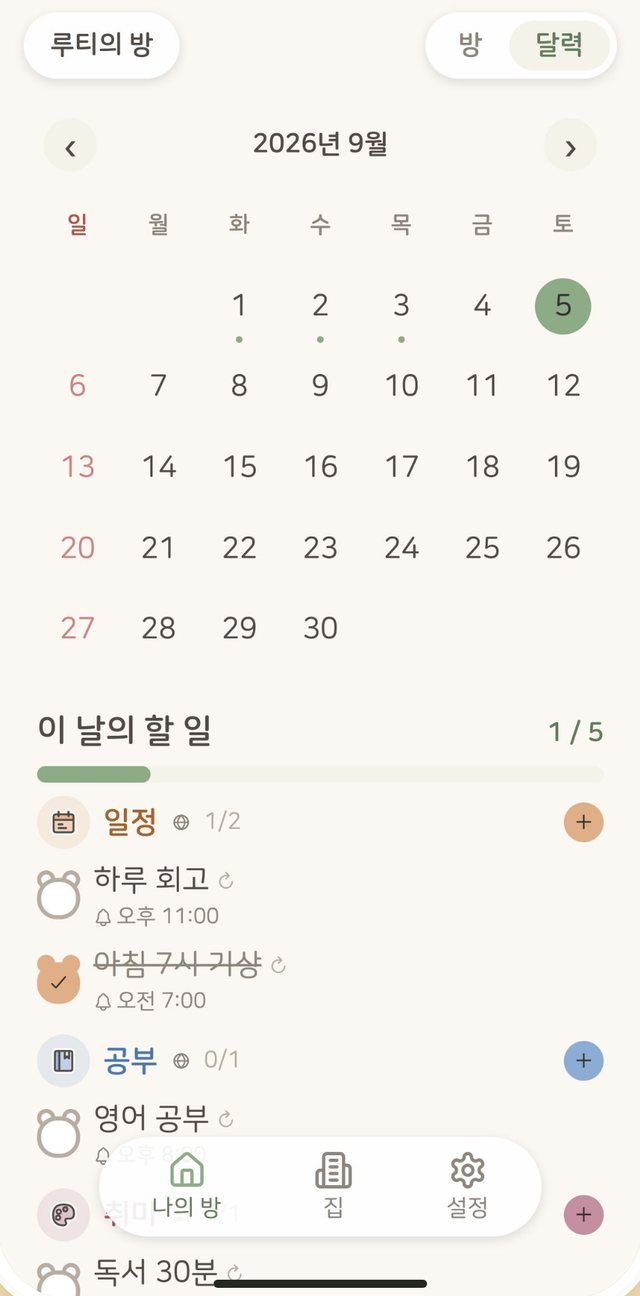
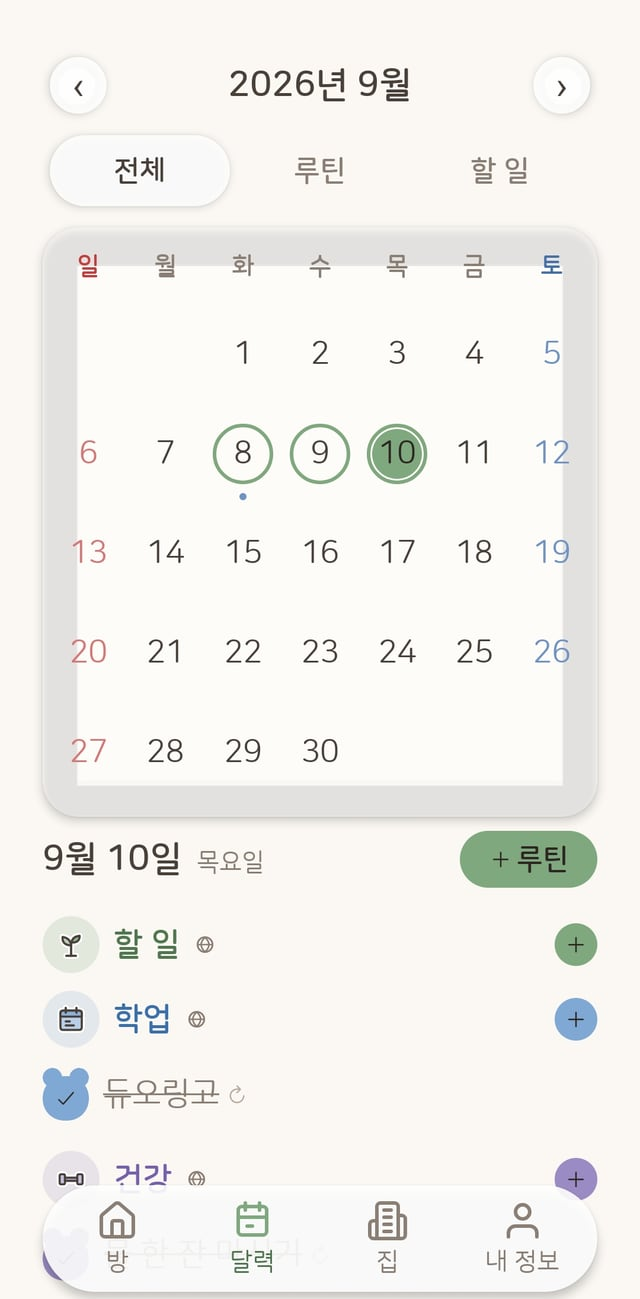
chore: 랜딩 스크린샷 교체 — 2026-09-10 UI(방·할 일·꾸미기·집·달력) (#44)
- public/assets/screens 5장 교체(Android 캡처, 640px). 계정명도 '루게더'로 바뀌어 이전 jjh 노출 해소
- scripts/screens.mjs: 상태바 없는 캡처용 full 모드(크롭 없이 리사이즈) — raw는 위 165px을 잘라 Lv 배지·뒤로가기·집 제목이 날아감
- i18n alt 텍스트(ko/en)를 새 화면에 맞게 갱신

Claude-Session: https://claude.ai/code/session_01NvziasYzK4XLJfxQvks6WQ

diff --git a/src/i18n/index.ts b/src/i18n/index.ts
@@ -36,15 +36,15 @@ const ko: Dict = {
     lead: '내 캐릭터와, 친구들과 한 집에서 함께 크는 할 일 관리 앱, 루게더.',
     webLink: 'PC에서 설치 없이 웹으로 시작하기 →',
     scrollHint: '스크롤해서 더 알아보기',
-    heroAlt: '루게더 내 방 화면 — 캐릭터가 쉬고 있는 노란 방과 오늘의 할 일',
+    heroAlt: '루게더 내 방 화면 — 구름 벽지 방에서 쉬는 고양이 캐릭터와 오늘의 할 일',
   },
   badges: { comingSoon: '출시 예정' },
   // 카피·캡처는 App Store 스크린샷(2026-09)과 동일 — 스토어에서 본 앱을 랜딩에서 그대로 만나게
   tour: [
-    { title: ['매일의 할 일을', '가볍게 체크'], desc: '모닝·건강·성장처럼 카테고리로 묶고, 알림 시간까지 딱 정해요', alt: '오늘의 할 일 화면 — 모닝·건강·성장 카테고리와 곰 체크' },
+    { title: ['매일의 할 일을', '가볍게 체크'], desc: '모닝·건강·성장처럼 카테고리로 묶고, 알림 시간까지 딱 정해요', alt: '오늘의 할 일 화면 — 할 일·학업·건강 카테고리와 곰 체크' },
     { title: ['가구부터 벽지까지', '내 취향대로'], desc: '체크로 모은 코인으로 가구·소품·벽지·바닥을 골라 내 방을 꾸며요', alt: '방 꾸미기 화면 — 가구·소품·벽지·바닥 탭과 적용하기' },
-    { title: ['친구들과 한 집에서', '함께 쌓는 루틴'], desc: '초대코드로 모인 친구들의 방이 한 집에 — 함께 지킨 루틴이 집 레벨을 올려요', alt: '집 화면 — 친구 넷의 방이 모인 구름 위의 집, 집 레벨과 구성원' },
-    { title: ['차곡차곡 쌓인 하루', '달력에서 한눈에'], desc: '지킨 날마다 달력에 점이 찍히고, 주간 회고로 한 주를 돌아봐요', alt: '달력 화면 — 완료한 날에 점이 찍힌 9월 달력과 그날의 할 일' },
+    { title: ['친구들과 한 집에서', '함께 쌓는 루틴'], desc: '초대코드로 모인 친구들의 방이 한 집에 — 함께 지킨 루틴이 집 레벨을 올려요', alt: '집 화면 — 구름 위 집에 모인 방들, 집 레벨·멤버와 목표·집 탐색·집 관리 버튼' },
+    { title: ['차곡차곡 쌓인 하루', '달력에서 한눈에'], desc: '지킨 날마다 달력에 점이 찍히고, 주간 회고로 한 주를 돌아봐요', alt: '달력 화면 — 완료한 날에 동그라미가 표시된 9월 달력과 그날의 할 일' },
   ],
   web: {
     eyebrow: '웹에서도',
@@ -95,14 +95,14 @@ const en: Dict = {
     lead: 'A routine and to-do app where you grow with your character and friends, all in one house.',
     webLink: 'On PC? Start on the web, no install →',
     scrollHint: 'Scroll to learn more',
-    heroAlt: 'Rougether room screen — a cat character resting in a yellow room above today’s to-dos',
+    heroAlt: 'Rougether room screen — a cat character resting in a cloud-wallpaper room above today’s to-dos',
   },
   badges: { comingSoon: 'Coming soon' },
   tour: [
-    { title: ['Check off the day’s to-dos', 'with a light touch'], desc: 'Group them by category — morning, health, growth — and set exact reminder times', alt: 'Today’s to-dos screen — morning, health and growth categories with bear check marks' },
+    { title: ['Check off the day’s to-dos', 'with a light touch'], desc: 'Group them by category — morning, health, growth — and set exact reminder times', alt: 'Today’s to-dos screen — to-do, study and health categories with bear check marks' },
     { title: ['From furniture to wallpaper,', 'your taste, your room'], desc: 'Spend the coins from your check-ins on furniture, décor, wallpaper and floors', alt: 'Room decorating screen — furniture, décor, wallpaper and floor tabs with an apply button' },
-    { title: ['One house with friends,', 'routines you build together'], desc: 'Friends join with an invite code — the routines you keep together level up the house', alt: 'House screen — four friends’ rooms in a house above the clouds, with house level and members' },
-    { title: ['Every day, stacked up,', 'at a glance on the calendar'], desc: 'Each day you keep a routine gets a dot, and a weekly review helps you look back', alt: 'Calendar screen — a September calendar with dots on completed days and that day’s to-dos' },
+    { title: ['One house with friends,', 'routines you build together'], desc: 'Friends join with an invite code — the routines you keep together level up the house', alt: 'House screen — rooms gathered in a house above the clouds, with house level, members and goal, explore and manage buttons' },
+    { title: ['Every day, stacked up,', 'at a glance on the calendar'], desc: 'Each day you keep a routine gets a dot, and a weekly review helps you look back', alt: 'Calendar screen — a September calendar with completed days circled and that day’s to-dos' },
   ],
   web: {
     eyebrow: 'ALSO ON THE WEB',

diff --git a/README.md b/README.md
@@ -6,7 +6,7 @@
 - `npm install` 후 `npm run dev`(개발) / `npm run build`(빌드) / `npm run preview`(빌드 확인).
 - **`npm test`** = `astro check`(타입) + 빌드 + `scripts/smoke.mjs`(GA 태그·JSON-LD·딥링크·noindex·사이트맵 검사). PR마다 CI(`ci.yml`)에서 자동 실행.
 - 외부 링크·GA ID는 `src/lib/links.ts` 한 곳, 색상 토큰은 `src/styles/tokens.css` 한 곳에서만 관리.
-- **앱 스크린샷 교체**: `npm run screens -- raw <캡처.png> <이름>`(실기기 캡처, 상태바 제거) / `npm run screens -- store <합성본.png> <이름>`(App Store 합성본, 베젤 안쪽 자동 크롭) → `public/assets/screens/<이름>.jpg`.
+- **앱 스크린샷 교체**: `npm run screens -- raw <캡처.png> <이름>`(실기기 캡처, 상태바 제거) / `npm run screens -- store <합성본.png> <이름>`(App Store 합성본, 베젤 안쪽 자동 크롭) / `npm run screens -- full <캡처.jpg> <이름>`(상태바 없는 캡처 — Android 앱 캡처 등, 크롭 없이 리사이즈만) → `public/assets/screens/<이름>.jpg`.
 - 구조: `src/pages/`(index·invite·join — 기존 `.html` URL 유지: `build.format: 'file'`), `src/components/`(Header·Footer·StoreBadges·TourRow·Faq·InviteCard), `src/layouts/Base.astro`(메타·파비콘·GA 공통), `public/`(assets·robots·sitemap·CNAME·privacy/terms는 원본 그대로).
 - **문구는 `src/i18n/index.ts` 사전 한 곳**(ko 원본 · en). 랜딩 본문은 `src/components/Landing.astro`가 `locale`로 렌더하고 `index.astro`(`/`)·`en.astro`(`/en.html`)가 그걸 부른다. 헤더 언어 드롭다운(`details.lang`)으로 전환하며 hreflang·canonical·og:locale이 페이지별로 붙는다. FAQ 문구와 FAQPage JSON-LD도 같은 사전에서 생성 — 문구 수정은 사전에서만. invite/join은 한국어 고정.
 - 색상은 앱의 cozy 테마 토큰(`rougether-mobile` `src/constants/theme.ts`)을 CSS 변수로 옮긴 것 — 토큰이 바뀌면 `src/styles/tokens.css`만 갱신.
